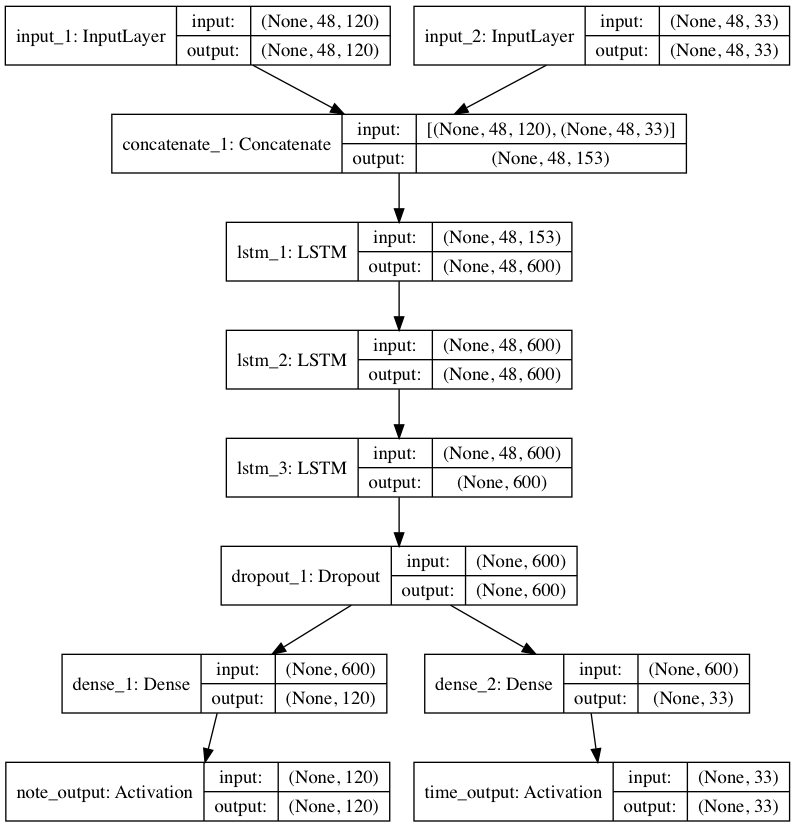
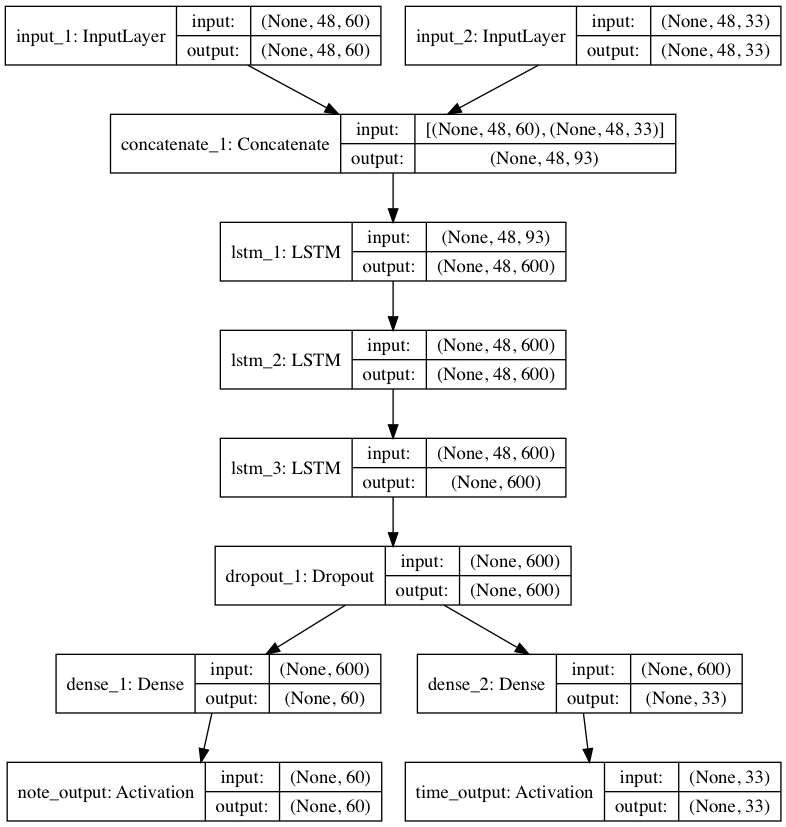
one track merge

diff --git a/multiple_instruments/music_generator.py b/multiple_instruments/music_generator.py
@@ -23,14 +23,10 @@ parser.add_argument('--temp_sd', type=float, default=0, required=False,
                     help='Standard deviation of temperture.')
 parser.add_argument('--finger_number', type=int, default=5, required=False,
                     help='Maximum number of notes play at the same time.')
-parser.add_argument('--align_melody', type=int, default=4, required=False,
+parser.add_argument('--align', type=int, default=4, required=False,
                     help='Main melody alignment.')
-parser.add_argument('--align_accompany', type=int, default=8, required=False,
-                    help='Accompany alignment.')
 parser.add_argument('--bpm', type=float, default=120.0, required=False,
                     help='Bpm (speed)')
-parser.add_argument('--wake_up', type=int, default=0, required=False,
-                    help='Wake up one of the tracks if it fell asleep...')
 parser.add_argument('--do_format', action='store_true', default=False,
                     help='Format data before sending into model...')
 parser.add_argument('--debug', action='store_true', default=False,
@@ -41,8 +37,6 @@ parser.add_argument('--sticky', action='store_true', default=False,
                     help='')
 parser.add_argument('--main_instrument', type=int, default=0, required=False,
                     help='Main instrument')
-parser.add_argument('--accompany_instrument', type=int, default=46, required=False,
-                    help='Accompany instrument')
 
 args = parser.parse_args()
 tar_midi = args.output_midi_path
@@ -51,12 +45,7 @@ temperature_note = args.note_temp
 temperature_delta = args.delta_temp
 temperature_sd = args.temp_sd
 finger_limit = args.finger_number
-align_right = args.align_melody
-align_left  = args.align_accompany
-gcd_align = gcd(align_right, align_left)
-lcm_align = align_right//gcd_align * align_left
-wake_up = args.wake_up
-wake_up_w = wake_up*lcm_align ## threshold
+align = args.align
 do_format = args.do_format
 
 if args.debug:
@@ -69,7 +58,7 @@ defaultUnit = 500000
 changedSpeed= int(round(500000.0/speedRatio))
 
 segLen=48
-track_num=2
+track_num=1
 maxrange=60 #[36, 95]
 vecLen=maxrange*track_num
 maxdelta=33 #[0, 32]
@@ -121,7 +110,6 @@ def main():
     for _ in xrange(track_num):
         last[_] = -1
     tickAccum = 0
-    sleepy = 0 ## to measure sleepiness !?!?
     for i in xrange(noteNum):
         pred_note, pred_time = model.predict([notes, deltas], batch_size=1, verbose=0)
         for inst in xrange(track_num):
@@ -136,16 +124,10 @@ def main():
                         break
             if zs>=finger_limit: ## no more fingers
                 pred_time[0][0] = 1e-100
-        if wake_up>0: ## check if a track fell asleep
-            if sleepy>0 and sleepy>=wake_up_w:
-                pred_note[0][:maxrange] = 1e-100
-            elif sleepy<0 and -sleepy>=wake_up_w:
-                pred_note[0][maxrange:] = 1e-100
         key = int(sample(pred_note[0], temperature_note, temperature_sd))
-        note = key  % maxrange
-        inst = key // maxrange
+        note = key
+        inst = 0
         delta = int(sample(pred_time[0], temperature_delta, temperature_sd))
-        align = align_right if inst==0 else align_left
         if last[inst]==-1:
             track[inst].append(midi.SetTempoEvent(tick=0, data=[(changedSpeed>>16) &0xff, (changedSpeed>>8) &0xff, changedSpeed &0xff], channel=inst))
             track[inst].append(midi.ProgramChangeEvent(tick=0, data=[ instProgram[inst] ], channel=inst)) ## first event: program change to piano
@@ -193,7 +175,6 @@ def main():
                     notes[0, t, ln] = 1
                     notes[0, t-1, rn] = 1
                 else: break
-        sleepy += align_right if inst==0 else -align_left ## compute score, more notes on sheet -> more active
         print('processed: ', i+1, '/', noteNum)
     for i in xrange(track_num):
         if args.sticky and len(track[i])>0 and isinstance(track[i][-1], midi.NoteOnEvent):

diff --git a/multiple_instruments/tools.py b/multiple_instruments/tools.py
@@ -10,7 +10,7 @@ import os.path
 
 step_size=1
 segLen=48
-track_num=2
+track_num=1
 maxrange=60 ## [36, 95]
 vecLen=maxrange*track_num
 maxdelta=33 ## [0, 32]
@@ -24,10 +24,8 @@ def Tempo2BPM(x):
 
 def pattern2map(pattern, maxtick):
     ResScale = float(pattern.resolution) / float(defaultRes)
-    instrument = -1
     data=[(0,0)]#tick , key (main+accompany)
     for track in pattern: ## main melody if instrument==0 else accompany
-        if instrument==1: break ## if main & accompany is set, then break.
         temp=[(0,0)] #tick, note
         speedRatio = 1.0
         Normal = 120.0
@@ -49,14 +47,11 @@ def pattern2map(pattern, maxtick):
                     continue ## no change on unit of ticks
                 speedRatio = float(changeBPM)/float(Normal)
             elif isinstance(v, midi.NoteOnEvent) and v.data[0]>=36 and v.data[0]<=95 and v.data[1]>0:
-                if not noteOnDetected: instrument+=1
-                noteOnDetected = True
-                note = (v.data[0]-36)+instrument*maxrange
+                note = v.data[0]-36
                 tick = int(round(accumTick/ResScale))
                 temp.append((tick, note))
         temp = temp[1:-1]
         data.extend(temp)
-    if instrument!=1: raise Exception('# of track of piano != 2!')
     data = list(set(data)) ## remove duplicate data
     data.sort()
     for i in range(0, len(data)-1):
@@ -99,10 +94,6 @@ def makeSegment(data, maxlen, step, valid=False):
     nextseq = []
     for subdata in data:
         for i in xrange(0, len(subdata) - maxlen, step):
-            if subdata[i][0]!=-1:
-                test = np.array(subdata[i: i+maxlen+1])
-                if np.sum(test[:,1]>=maxrange)==0 or np.sum(test[:,1]<maxrange)==0: continue ## discard melody without accompany/main melody
-                del test
             sentences.append(subdata[i: i + maxlen])
             nextseq.append(subdata[i + maxlen])
     randIdx = np.random.permutation(len(sentences))

diff --git a/multiple_instruments/train.py b/multiple_instruments/train.py
@@ -62,7 +62,7 @@ epochs_delta = args.epochs_delta
 samples_per_epoch = args.sample_per_epoch
 step_size=1
 segLen=48
-track_num=2
+track_num=1
 maxrange=60 ## [36, 95]
 vecLen=maxrange*track_num
 maxdelta=33 ## [0, 32]

diff --git a/multiple_instruments/test.py b/multiple_instruments/test.py
@@ -26,7 +26,7 @@ args = parser.parse_args()
 compute_precision='float32'
 step_size=1
 segLen=48
-track_num=2
+track_num=1
 maxrange=60 ## [36, 95]
 vecLen=maxrange*track_num
 maxdelta=33 ## [0, 32]

diff --git a/multiple_instruments/load.py b/multiple_instruments/load.py
@@ -22,7 +22,7 @@ compute_precision='float32'
 learning_rate = 0.002
 epochs = 1
 segLen=48
-track_num=2
+track_num=1
 vecLen=60*track_num ## two tracks
 maxdelta=33 ## [0,32]
 maxpower=64

diff --git a/multiple_instruments/summary.py b/multiple_instruments/summary.py
@@ -22,7 +22,7 @@ compute_precision='float32'
 learning_rate = 0.002
 epochs = 1
 segLen=48
-track_num=2
+track_num=1
 vecLen=60*track_num ## two tracks
 maxdelta=33 ## [0,32]
 maxpower=64

diff --git a/multiple_instruments/seed_generator.py b/multiple_instruments/seed_generator.py
@@ -12,7 +12,7 @@ from tools import *
 
 step_size=1
 segLen=48
-track_num=2
+track_num=1
 maxrange=60 ## [36, 95]
 vecLen=maxrange*track_num
 maxdelta=33 ## [0, 32]
